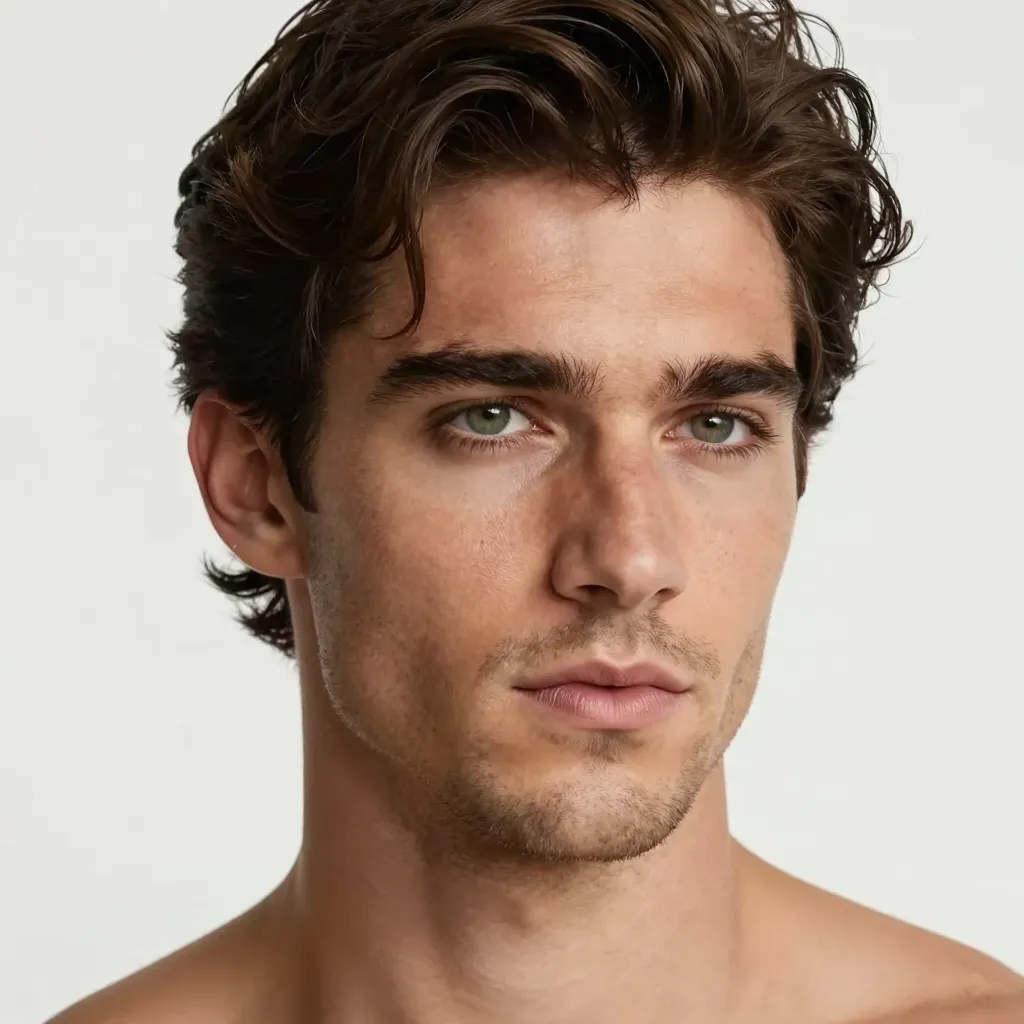
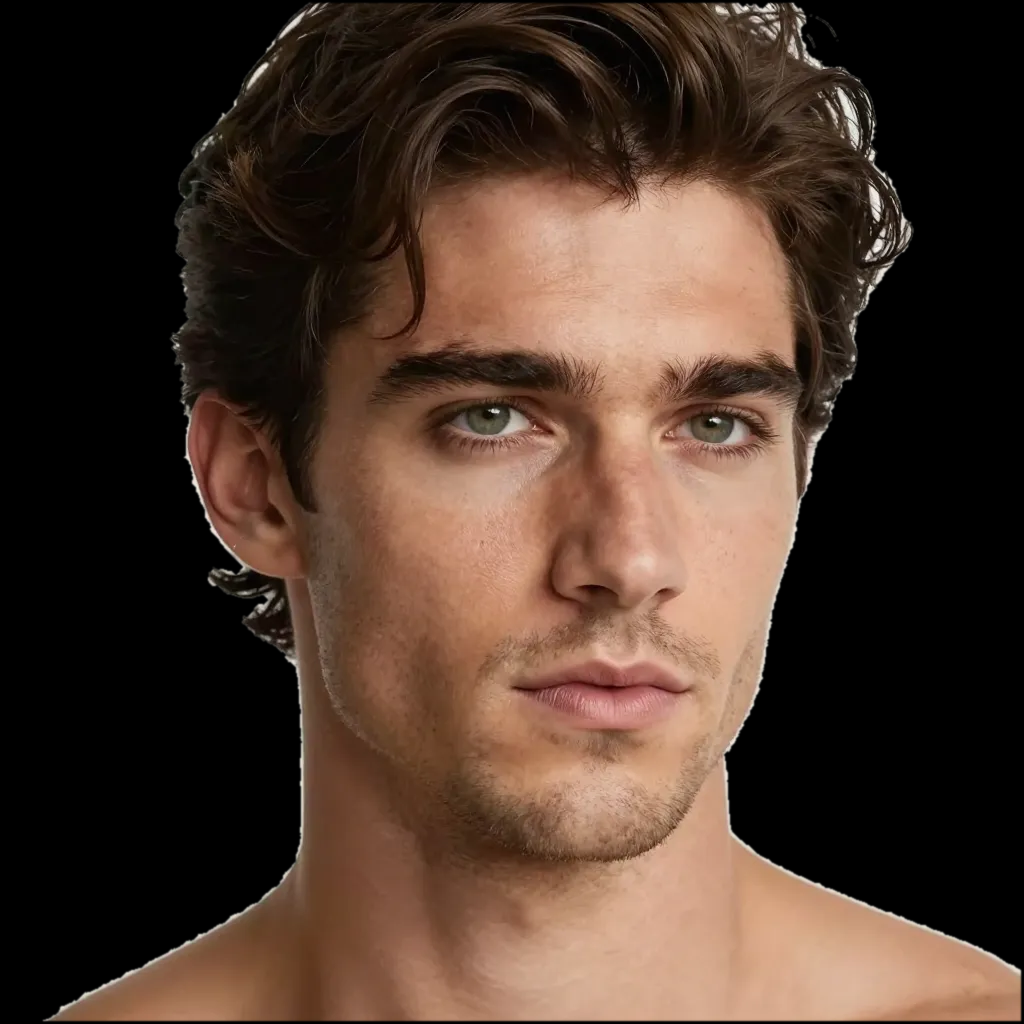
fix: keep bright photographic skin instead of treating studio highlights as empty
The black-masked plates already remove the backdrop, so rejecting high-luma samples was punching white holes in shoulders, arms, and the face.

diff --git a/src/lib/skin-shader.ts b/src/lib/skin-shader.ts
@@ -134,10 +134,8 @@ export function injectPhotorealSkin(
        float backLuma = dot(backC, vec3(0.299, 0.587, 0.114));
        float frontSat = max(max(frontC.r, frontC.g), frontC.b) - min(min(frontC.r, frontC.g), frontC.b);
        float backSat = max(max(backC.r, backC.g), backC.b) - min(min(backC.r, backC.g), backC.b);
-       float frontLive = step(0.04, frontLuma) * step(0.045, frontSat) * (1.0 - step(0.84, frontLuma));
-       float backLive = step(0.04, backLuma) * step(0.045, backSat) * (1.0 - step(0.84, backLuma));
-       frontLive *= 1.0 - step(frontLuma, 0.36) * step(frontC.r + 0.03, frontC.b);
-       backLive *= 1.0 - step(backLuma, 0.36) * step(backC.r + 0.03, backC.b);
+       float frontLive = step(0.05, frontLuma);
+       float backLive = step(0.05, backLuma);
        float wrap = smoothstep(-0.42, 0.12, nrm.z);
        float frontAmt = wrap * frontLive;
        float backAmt = (1.0 - wrap) * backLive;
@@ -152,7 +150,7 @@ export function injectPhotorealSkin(
        vec3 facePhoto = texture2D(uFaceMap, faceUV).rgb;
        float faceLuma = dot(facePhoto, vec3(0.299, 0.587, 0.114));
        float faceSat = max(max(facePhoto.r, facePhoto.g), facePhoto.b) - min(min(facePhoto.r, facePhoto.g), facePhoto.b);
-       float faceLive = step(0.05, faceLuma) * step(0.04, faceSat) * (1.0 - step(0.9, faceLuma));
+       float faceLive = step(0.05, faceLuma) * (1.0 - step(0.86, faceLuma) * (1.0 - step(0.05, faceSat)));
        skin = mix(skin, facePhoto, faceMask * faceLive);
        float hairCap = atlasSoft(w.y, 1.58, 1.62) * (1.0 - atlasSoft(w.z, 0.02, 0.06));
        skin = mix(skin, uHairColor, hairCap * (1.0 - faceMask * faceLive) * 0.92);

diff --git a/src/components/atlas/PhotorealShell.tsx b/src/components/atlas/PhotorealShell.tsx
@@ -215,7 +215,7 @@ export function PhotorealShell() {
         uBackMap: uniforms.current.uBackMap,
       });
     };
-    mat.customProgramCacheKey = () => `skin-photo-v6-${appearance.id}`;
+    mat.customProgramCacheKey = () => `skin-photo-v7-${appearance.id}`;
     return mat;
   }, [albedo, appearance]);
 

diff --git a/public/sw.js b/public/sw.js
@@ -1,4 +1,4 @@
-const CACHE = "male-atlas-v15";
+const CACHE = "male-atlas-v16";
 const PRECACHE = ["/", "/manifest.webmanifest", "/icons/icon-192.png", "/icons/icon-512.png"];
 
 self.addEventListener("install", (event) => {
